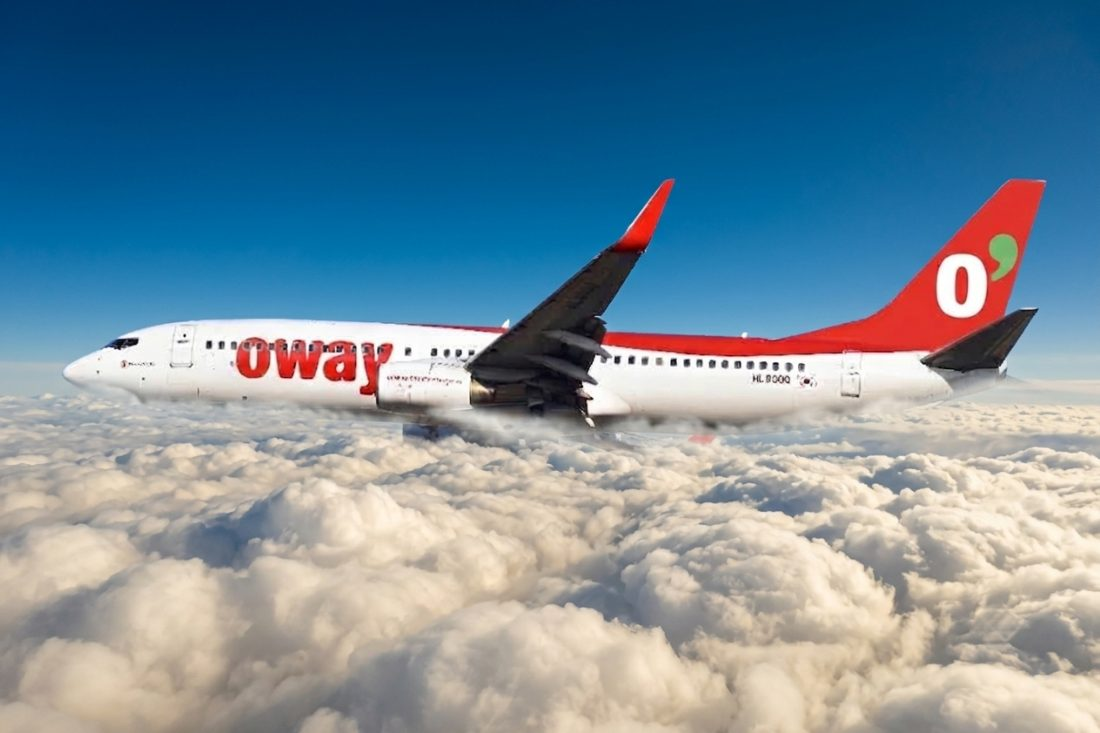
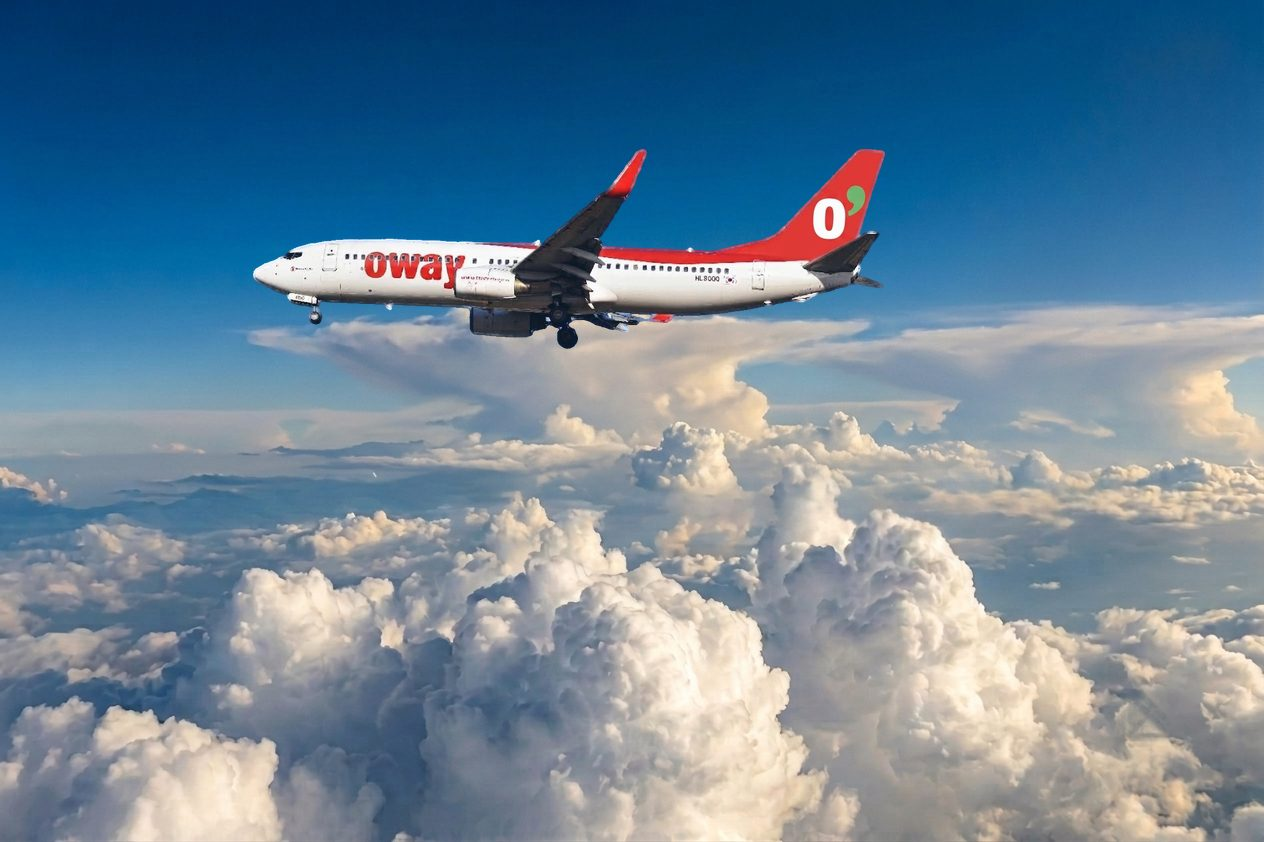
odyssey: v0.14.1 — 쌍안경 뷰 최종 합성본 + 원형 마스크 중앙 정렬
- #23 쌍안경 뷰 이미지를 gen/55f_oway_plane_final(구름 위, 기체 폭 50%)로 교체.
- 원형 마스크(스테이지 50%/52% 중심) 한가운데에 기체가 오도록 crop
  {x:17.40, y:0.95, w:55.0, h:55.1} 적용 — "oway" 글자 화면 실측 182x45px 로
  직전 버전(181x44px) 이상, 꼬리 로고까지 마스크 안.
- 다른 변경 없음.

게이트: verify-binoc · verify-locks/overflow · WebKit · walkthrough 62컷(실패 0·콘솔 0).

Claude-Session: https://claude.ai/code/session_011NU9756s6nDa9RvgiaKgWd

diff --git a/odyssey/index.html b/odyssey/index.html
@@ -10906,7 +10906,7 @@ function findAlignmentPattern(matrix, alignmentPatternQuads, topRight, topLeft, 
 (function () {
   "use strict";
 
-  var BUILD = "ODY-S1-20260911-1718";
+  var BUILD = "ODY-S1-20260911-1816";
   var LSKEY = "odyssey.s1.v1";
 
   var qs = new URLSearchParams(location.search);
@@ -11771,8 +11771,14 @@ function findAlignmentPattern(matrix, alignmentPatternQuads, topRight, topLeft, 
     danceMs: 1000
   };
 
+  /* ★v0.14.1 #23 쌍안경 뷰 — gen/55f(1264x842). 기체 bbox 20.0/17.7/50.0/23.75,
+     "oway" 글자 28.5~37.2 / 28.5~32.7. .cu-binoc 원형 마스크는 스테이지의 50%/52% 가 중심이고
+     radial-gradient 가 반지름 70% 까지만 완전 투명하므로, 기체와 글자가 그 안에 들어오게 자른다.
+     crop 폭 55.5% → 화면의 "oway" 글자 폭이 55c(직전 버전)보다 크다(실측 비교). */
+  var BINOC = { img: "oway_plane.jpg", nw: 1264, nh: 842, crop: { x: 17.40, y: 0.95, w: 55.0, h: 55.1 } };
+
   window.DATA = {
-    LOCKS: LOCKS, IFE: IFE, TAMA: TAMA, TILES: TILES,
+    LOCKS: LOCKS, IFE: IFE, TAMA: TAMA, TILES: TILES, BINOC: BINOC,
     IMG: IMG, TEMP: TEMP, ITEMS: ITEMS, MAPS: MAPS, ANS: ANS, PIN_HASH: PIN_HASH, P26_HASH: P26_HASH,
     FOOD: FOOD, FOOD_BG: FOOD_BG, FLAGS: FLAGS, UTENSIL: UTENSIL, IFE_ICONS: IFE_ICONS,
     KANA: KANA, SONGS: SONGS,
@@ -14366,8 +14372,12 @@ function findAlignmentPattern(matrix, alignmentPatternQuads, topRight, topLeft, 
       /* ★v0.6.3 쌍안경 뷰 — 싱가포르 방탈출의 .cu-binoc 마스크를 그대로 재사용.
          (안은 사진, 검은 원 테두리, 바깥은 어둡게)
          #23 에 보일 내용 이미지는 아직 미정 → 우선 22 창문 하늘(window_open.jpg) 위에 씌운다. */
-      /* ★v0.14 쌍안경으로 보이는 것 = 하늘의 비행기(55). 없으면 창밖 하늘로 */
-      var vw = imgStage(DATA.IMG + (hasImg("oway_plane.jpg") ? "oway_plane.jpg" : "window_open.jpg"), []);
+      /* ★v0.14.1 쌍안경으로 보이는 것 = 구름 위를 나는 기체(55f).
+         원형 마스크 한가운데에 기체와 "oway" 글자가 오게 DATA.BINOC.crop 으로 잘라 보여 준다.
+         사진이 없으면 예전처럼 창밖 하늘로. */
+      var B = DATA.BINOC, useB = hasImg(B.img);
+      var vw = imgStage(DATA.IMG + (useB ? B.img : "window_open.jpg"), [],
+        useB ? { crop: B.crop, nw: B.nw, nh: B.nh } : null);
       var vin = vw.querySelector(".cropInner");
       if (vin) vin.appendChild(el("div", "cu-binoc"));
       c.stage.appendChild(vw);

diff --git a/odyssey/sw.js b/odyssey/sw.js
@@ -1,5 +1,5 @@
 /* 오디세이 × 발리 — 오프라인 서비스워커 (자동 생성) */
-const CACHE = "odyssey-ODY-S1-20260911-1718";
+const CACHE = "odyssey-ODY-S1-20260911-1816";
 const PRECACHE = [
  "./",
  "./index.html",
